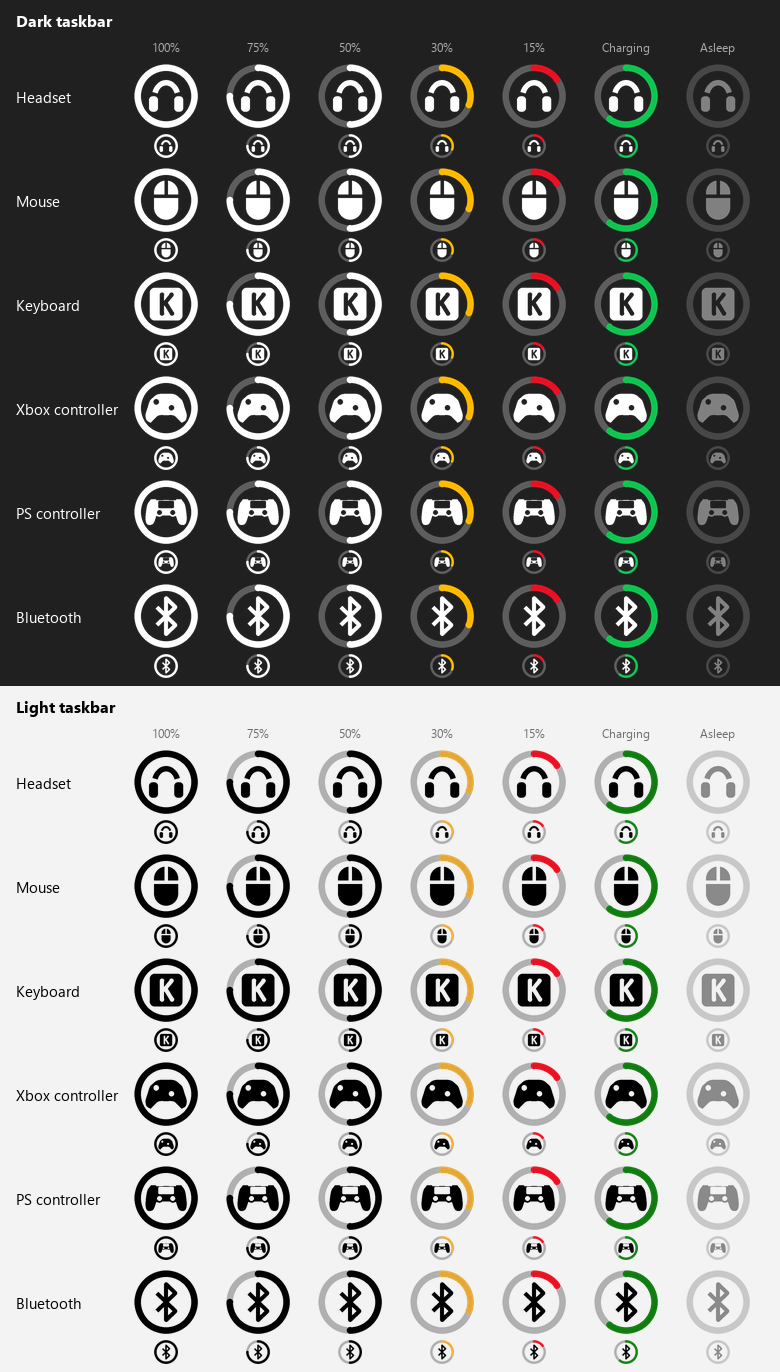
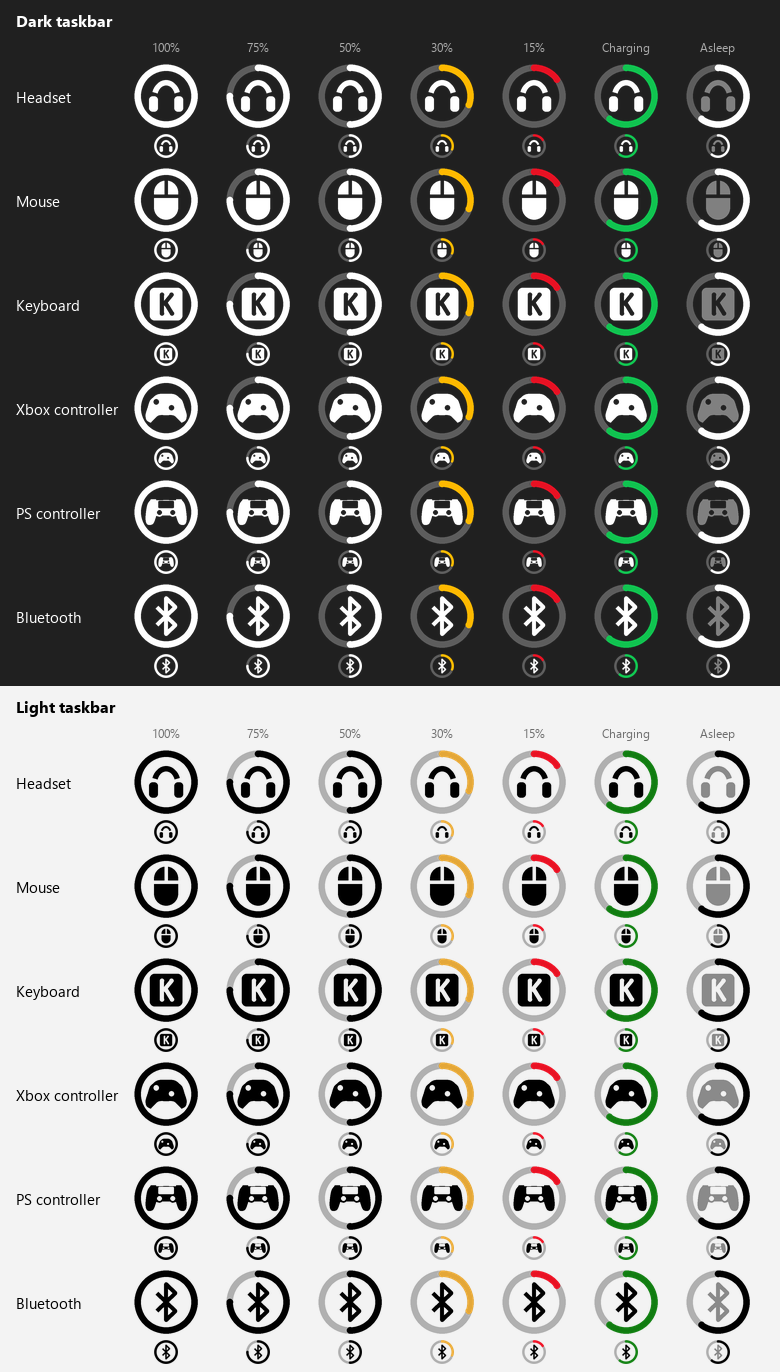
fix(ui): keep the last battery ring while devices sleep

Changed region(s): [[0.8923, 0.551, 0.9846, 1.0], [0.8923, 0.0306, 0.9846, 0.4898]]

diff --git a/tests/test_sleeping_icons.py b/tests/test_sleeping_icons.py
@@ -1,0 +1,69 @@
+"""A sleeping device keeps its last battery ring and greys only the centre."""
+import os
+import sys
+import unittest
+
+sys.path.insert(0, os.path.dirname(os.path.dirname(os.path.abspath(__file__))))
+
+from halo import icons
+
+
+class SleepingIconTests(unittest.TestCase):
+    def test_known_level_keeps_the_same_ring_as_the_awake_device(self):
+        # No badge: compare every pixel of the actual ring, including its colour,
+        # track and anti-aliased edge, on both taskbar themes and near thresholds.
+        for light in (False, True):
+            for charging in (False, True):
+                for level in (0, 1, 10, 20, 25, 30, 65, 100):
+                    with self.subTest(light=light, charging=charging, level=level):
+                        awake = icons.render(level, charging, True, 20, light)
+                        asleep = icons.render(level, charging, False, 20, light)
+                        self.assertEqual(awake.tobytes(), asleep.tobytes())
+
+    def test_only_the_pictogram_fades_when_the_device_sleeps(self):
+        for light in (False, True):
+            for badge in set(icons.KINDS.values()):
+                with self.subTest(light=light, badge=badge):
+                    awake = icons.render(65, False, True, 20, light, badge)
+                    asleep = icons.render(65, False, False, 20, light, badge)
+                    changed = [(x, y) for y in range(icons.SIZE)
+                               for x in range(icons.SIZE)
+                               if awake.getpixel((x, y)) != asleep.getpixel((x, y))]
+                    self.assertTrue(changed, "the sleeping badge must look different")
+                    # The centre and its resampling fringe can change; the
+                    # outside of the battery ring must not fade with it.
+                    for x, y in changed:
+                        self.assertLess((x + .5 - 32) ** 2 + (y + .5 - 32) ** 2, 28 ** 2)
+                    self.assertTrue(any(0 < asleep.getpixel(p)[3] < awake.getpixel(p)[3]
+                                        for p in changed),
+                                    "the pictogram must fade but remain visible")
+
+    def test_percentage_mode_greys_the_number_but_keeps_the_warning_ring(self):
+        for light in (False, True):
+            with self.subTest(light=light):
+                ring = icons.render(15, False, False, 20, light)
+                numbered = icons.render(15, False, False, 20, light, text="15")
+                changed = [(x, y) for y in range(icons.SIZE) for x in range(icons.SIZE)
+                           if ring.getpixel((x, y)) != numbered.getpixel((x, y))]
+                self.assertTrue(changed, "the last percentage must remain visible")
+                for x, y in changed:
+                    self.assertLess((x + .5 - 32) ** 2 + (y + .5 - 32) ** 2, 25 ** 2)
+                    r, g, b, alpha = numbered.getpixel((x, y))
+                    self.assertEqual(r, g)
+                    self.assertEqual(g, b)
+                self.assertTrue(any(ring.getpixel((x, y))[0] > ring.getpixel((x, y))[1]
+                                    and ring.getpixel((x, y))[3] > 200
+                                    for y in range(icons.SIZE) for x in range(icons.SIZE)),
+                                "the low-battery ring must stay red")
+
+    def test_no_level_does_not_invent_a_battery_or_charging_arc_while_asleep(self):
+        for light in (False, True):
+            with self.subTest(light=light):
+                empty = icons.render(None, False, False, 20, light, "mouse")
+                stale_charging = icons.render(None, True, False, 20, light, "mouse")
+                self.assertEqual(empty.tobytes(), stale_charging.tobytes())
+                self.assertLess(empty.getchannel("A").getextrema()[1], 200)
+
+
+if __name__ == "__main__":
+    unittest.main()

diff --git a/halo/icons.py b/halo/icons.py
@@ -8,7 +8,8 @@ Colours follow the system battery icon: normal charge uses the taskbar colour
 (white on a dark taskbar, black on a light one), close to the threshold it is
 amber, at or below the threshold it is red, and while charging the arc is
 green and slowly "breathes" in brightness.
-Asleep / no link: the icon is translucent and has no arc.
+Asleep / no link: keep the last known level's arc; only the centre is
+translucent. Without a known level, the ring stays empty and dim.
 """
 from __future__ import annotations
 
@@ -253,6 +254,7 @@ def render(level: Optional[int], charging: bool, online: bool, low: int = 20,
         light_taskbar = taskbar_is_light()
     fg = (0, 0, 0) if light_taskbar else (255, 255, 255)
     active = online and (level is not None or charging)
+    ring_active = level is not None or active
     alpha = 255 if active else 110
 
     img = Image.new("RGBA", (S, S), (0, 0, 0, 0))
@@ -262,10 +264,10 @@ def render(level: Optional[int], charging: bool, online: bool, low: int = 20,
     box = (_r(32 - R), _r(32 - R), _r(32 + R), _r(32 + R))
 
     # ring track
-    d.ellipse(box, outline=fg + (70 if active else 45,), width=_r(w))
+    d.ellipse(box, outline=fg + (70 if ring_active else 45,), width=_r(w))
 
     # charge arc
-    if active:
+    if ring_active:
         c = arc_color(level, charging, low, fg) + (int(255 * max(0.0, min(1.0, pulse))),)
         lvl = max(0, min(100, level)) if level is not None else None
         if lvl is None:

diff --git a/tests/test_tray_icons.py b/tests/test_tray_icons.py
@@ -174,6 +174,15 @@ class RenderOnceTests(unittest.TestCase):
         self.ic.update(dev())
         self.assertEqual(self.calls, [False])
 
+    def test_a_sleeping_charging_device_keeps_a_static_ring(self):
+        sleeping = DeviceStatus("logitech:C15E09CD", "G502 LIGHTSPEED", 50, True,
+                                False, "logitech", kind="mouse")
+        self.ic.update(sleeping)
+        self.assertEqual(self.calls, [False])
+        self.assertIsNone(self.ic.frames)
+        self.ic.update(self.charging(50))
+        self.assertEqual(len(self.ic.frames), hb.icons.BREATH_FRAMES)
+
     def test_the_other_colour_is_drawn_once_on_the_first_flip(self):
         self.ic.update(self.charging(50))
         dark = self.ic.frames

diff --git a/tools/make_previews.py b/tools/make_previews.py
@@ -24,7 +24,7 @@ ROWS = [("Headset", "headset"), ("Mouse", "mouse"), ("Keyboard", "keyboard"),
 # (header, level, charging, online)
 COLUMNS = [("100%", 100, False, True), ("75%", 75, False, True), ("50%", 50, False, True),
            ("30%", 30, False, True), ("15%", 15, False, True), ("Charging", 60, True, True),
-           ("Asleep", None, False, False)]
+           ("Asleep", 60, False, False)]
 
 BIG, SMALL = 64, 24            # a large icon, and the tray size at 150% scaling
 X0, PITCH = 134, 92            # left edge of the first large icon, column pitch

diff --git a/docs/features.md b/docs/features.md
@@ -9,7 +9,7 @@
 - **Colour**: follows the taskbar (white on a dark bar, black on a light one). With [MyDockFinder](https://store.steampowered.com/app/1787090/MyDockFinder/) running it follows its top menu bar instead. With a transparent taskbar (e.g. TranslucentTB) pick **Icon colour → White** or **Black**.
 - **Amber**: close to the alert threshold. **Red**: at or below it.
 - **Green and breathing**: charging - the animation can be turned off in the menu, leaving a plain green arc.
-- **Translucent**: the mouse is asleep and keeps its last level for 5 minutes. A device that is switched off leaves the tray and comes back when it is switched on.
+- **Asleep / disconnected**: the ring keeps the last known battery level and its colour; only the centre pictogram (or percentage number) turns grey. The tooltip marks it as a last known value. Without a known level, the ring stays empty and dim. How long a sleeping device stays in the tray depends on its provider; Pulsar / ATK / VXE mice keep their last reading while the receiver remains connected.
 
 The low battery notification fires once, and again only after the device has been charged.
 

diff --git a/CHANGELOG.md b/CHANGELOG.md
@@ -6,6 +6,11 @@ and the project follows [Semantic Versioning](https://semver.org/).
 
 ## [Unreleased]
 
+### Changed
+- Sleeping devices keep the last known battery ring and its colour. Only the
+  centre pictogram (or percentage number) turns grey; an unknown battery level
+  still has an empty, dim ring. Charging animation remains paused while asleep.
+
 ## [1.16.0] - 2026-11-07
 
 ### Added
